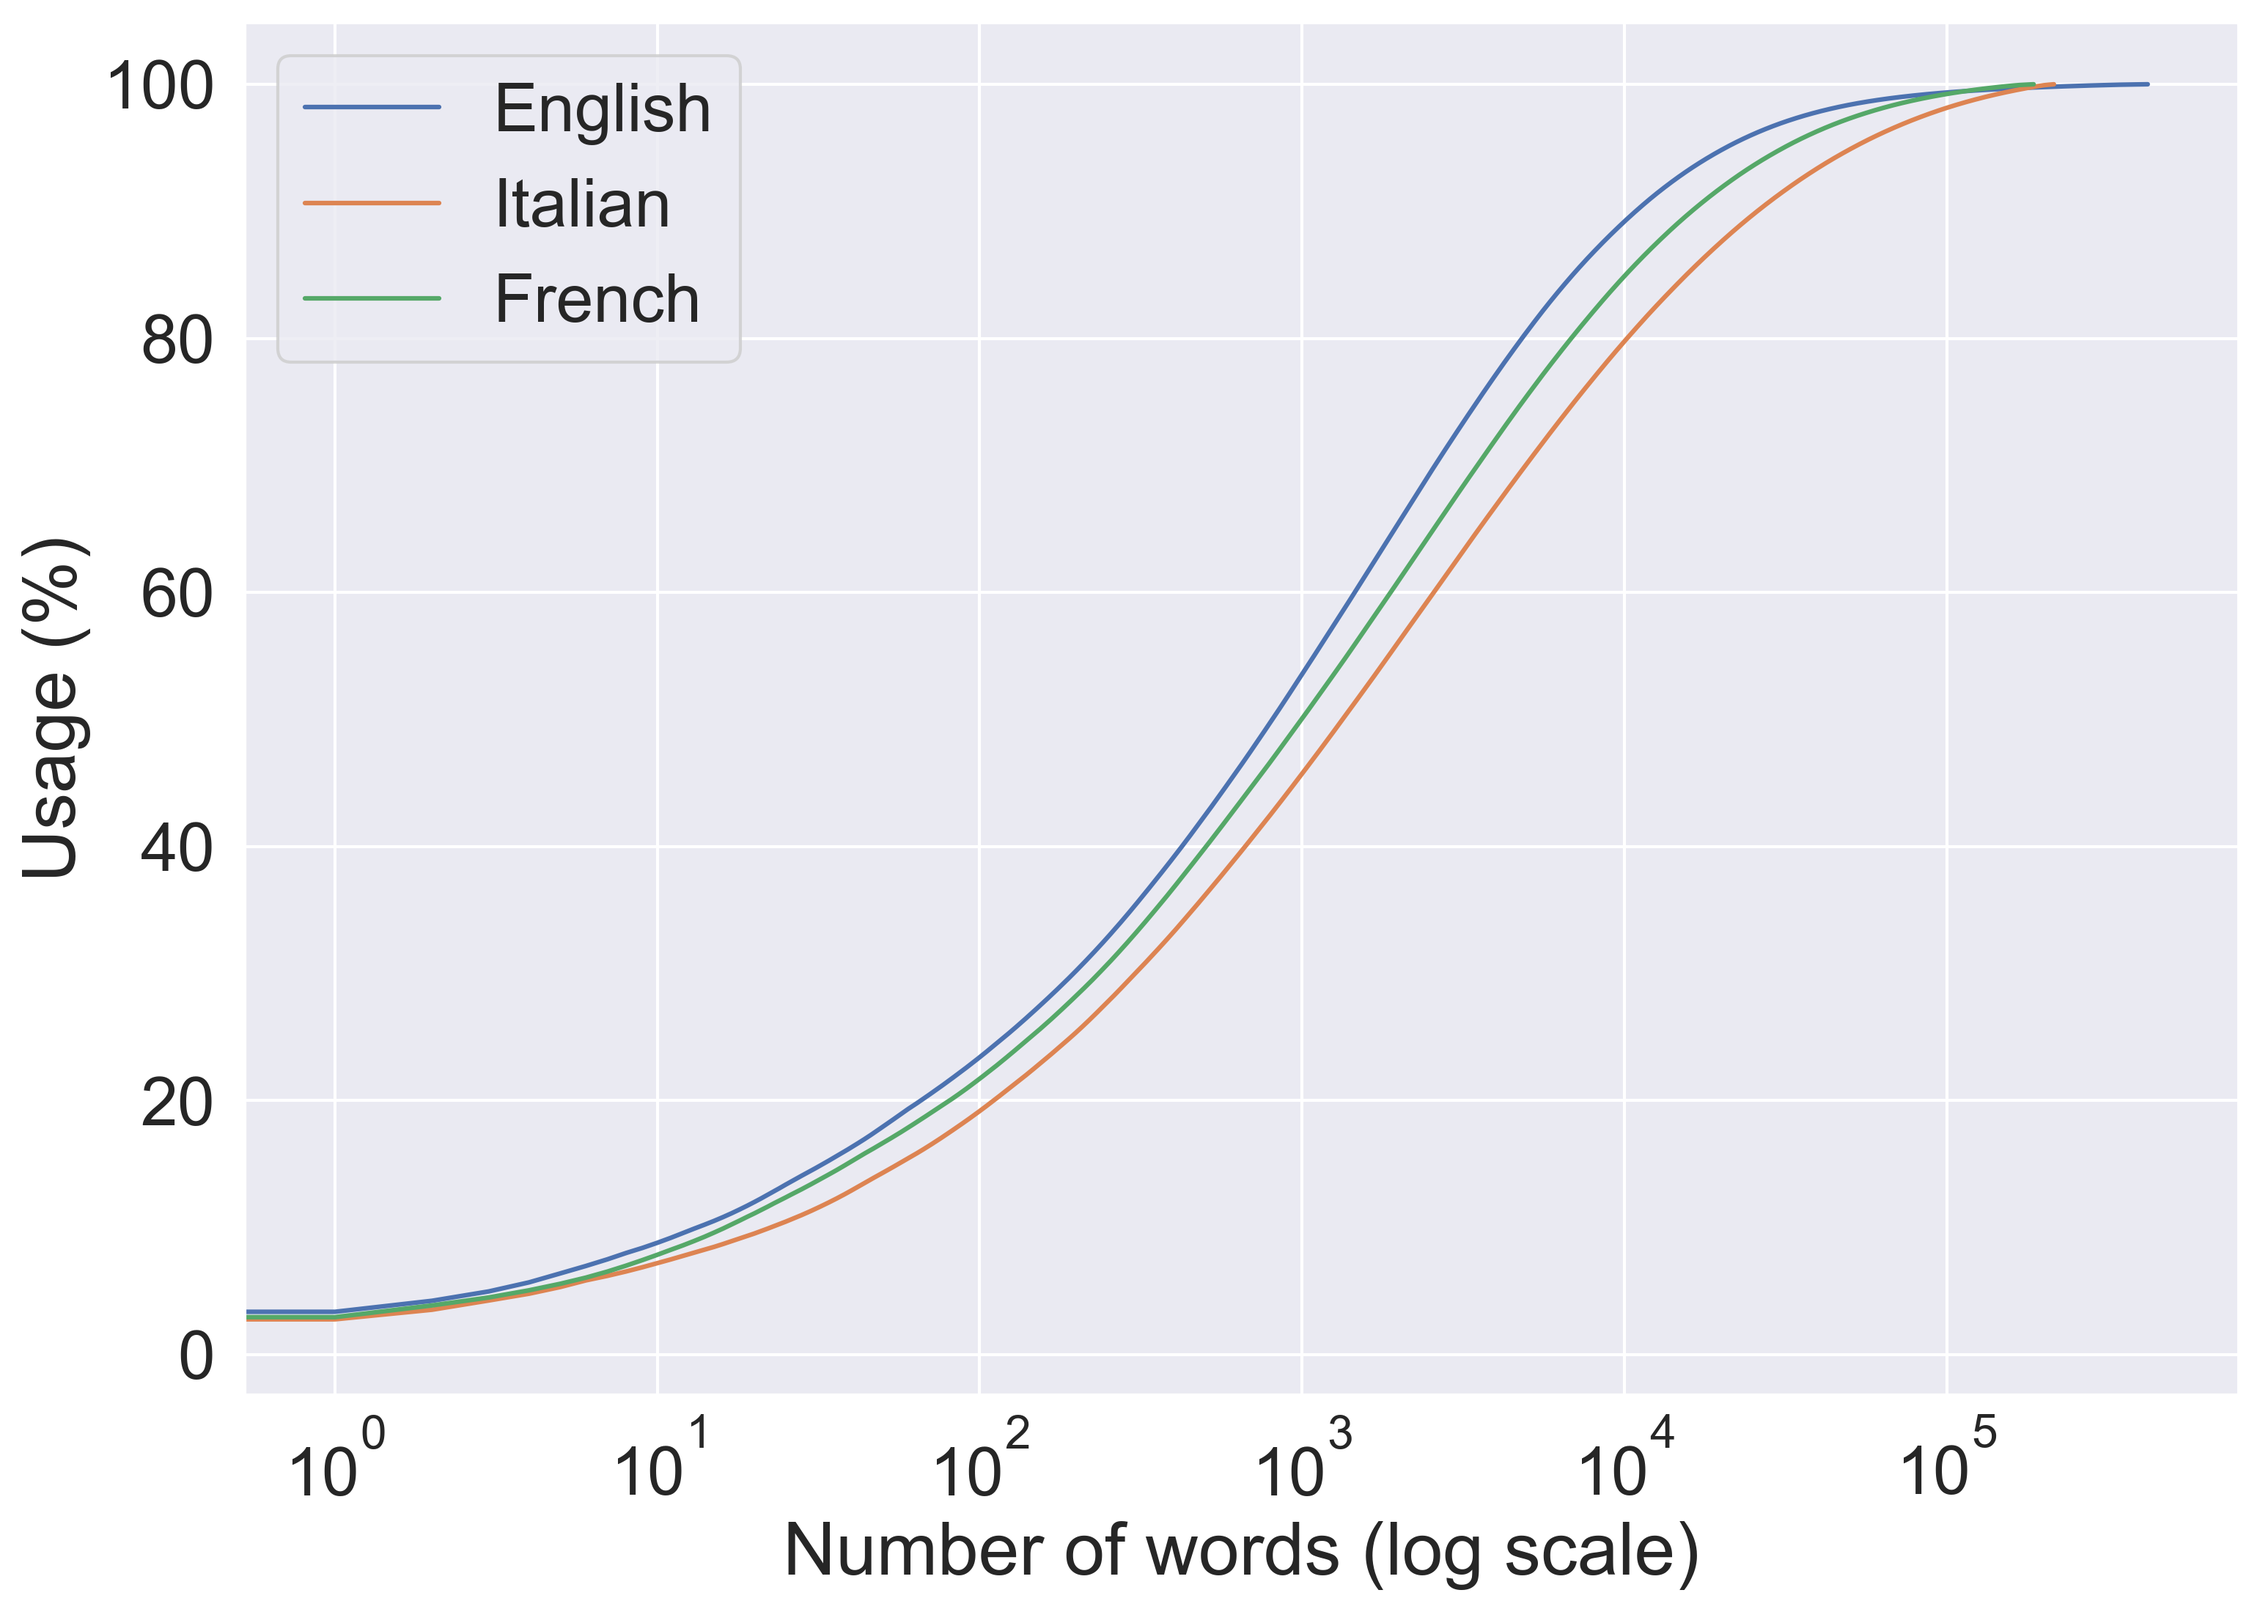
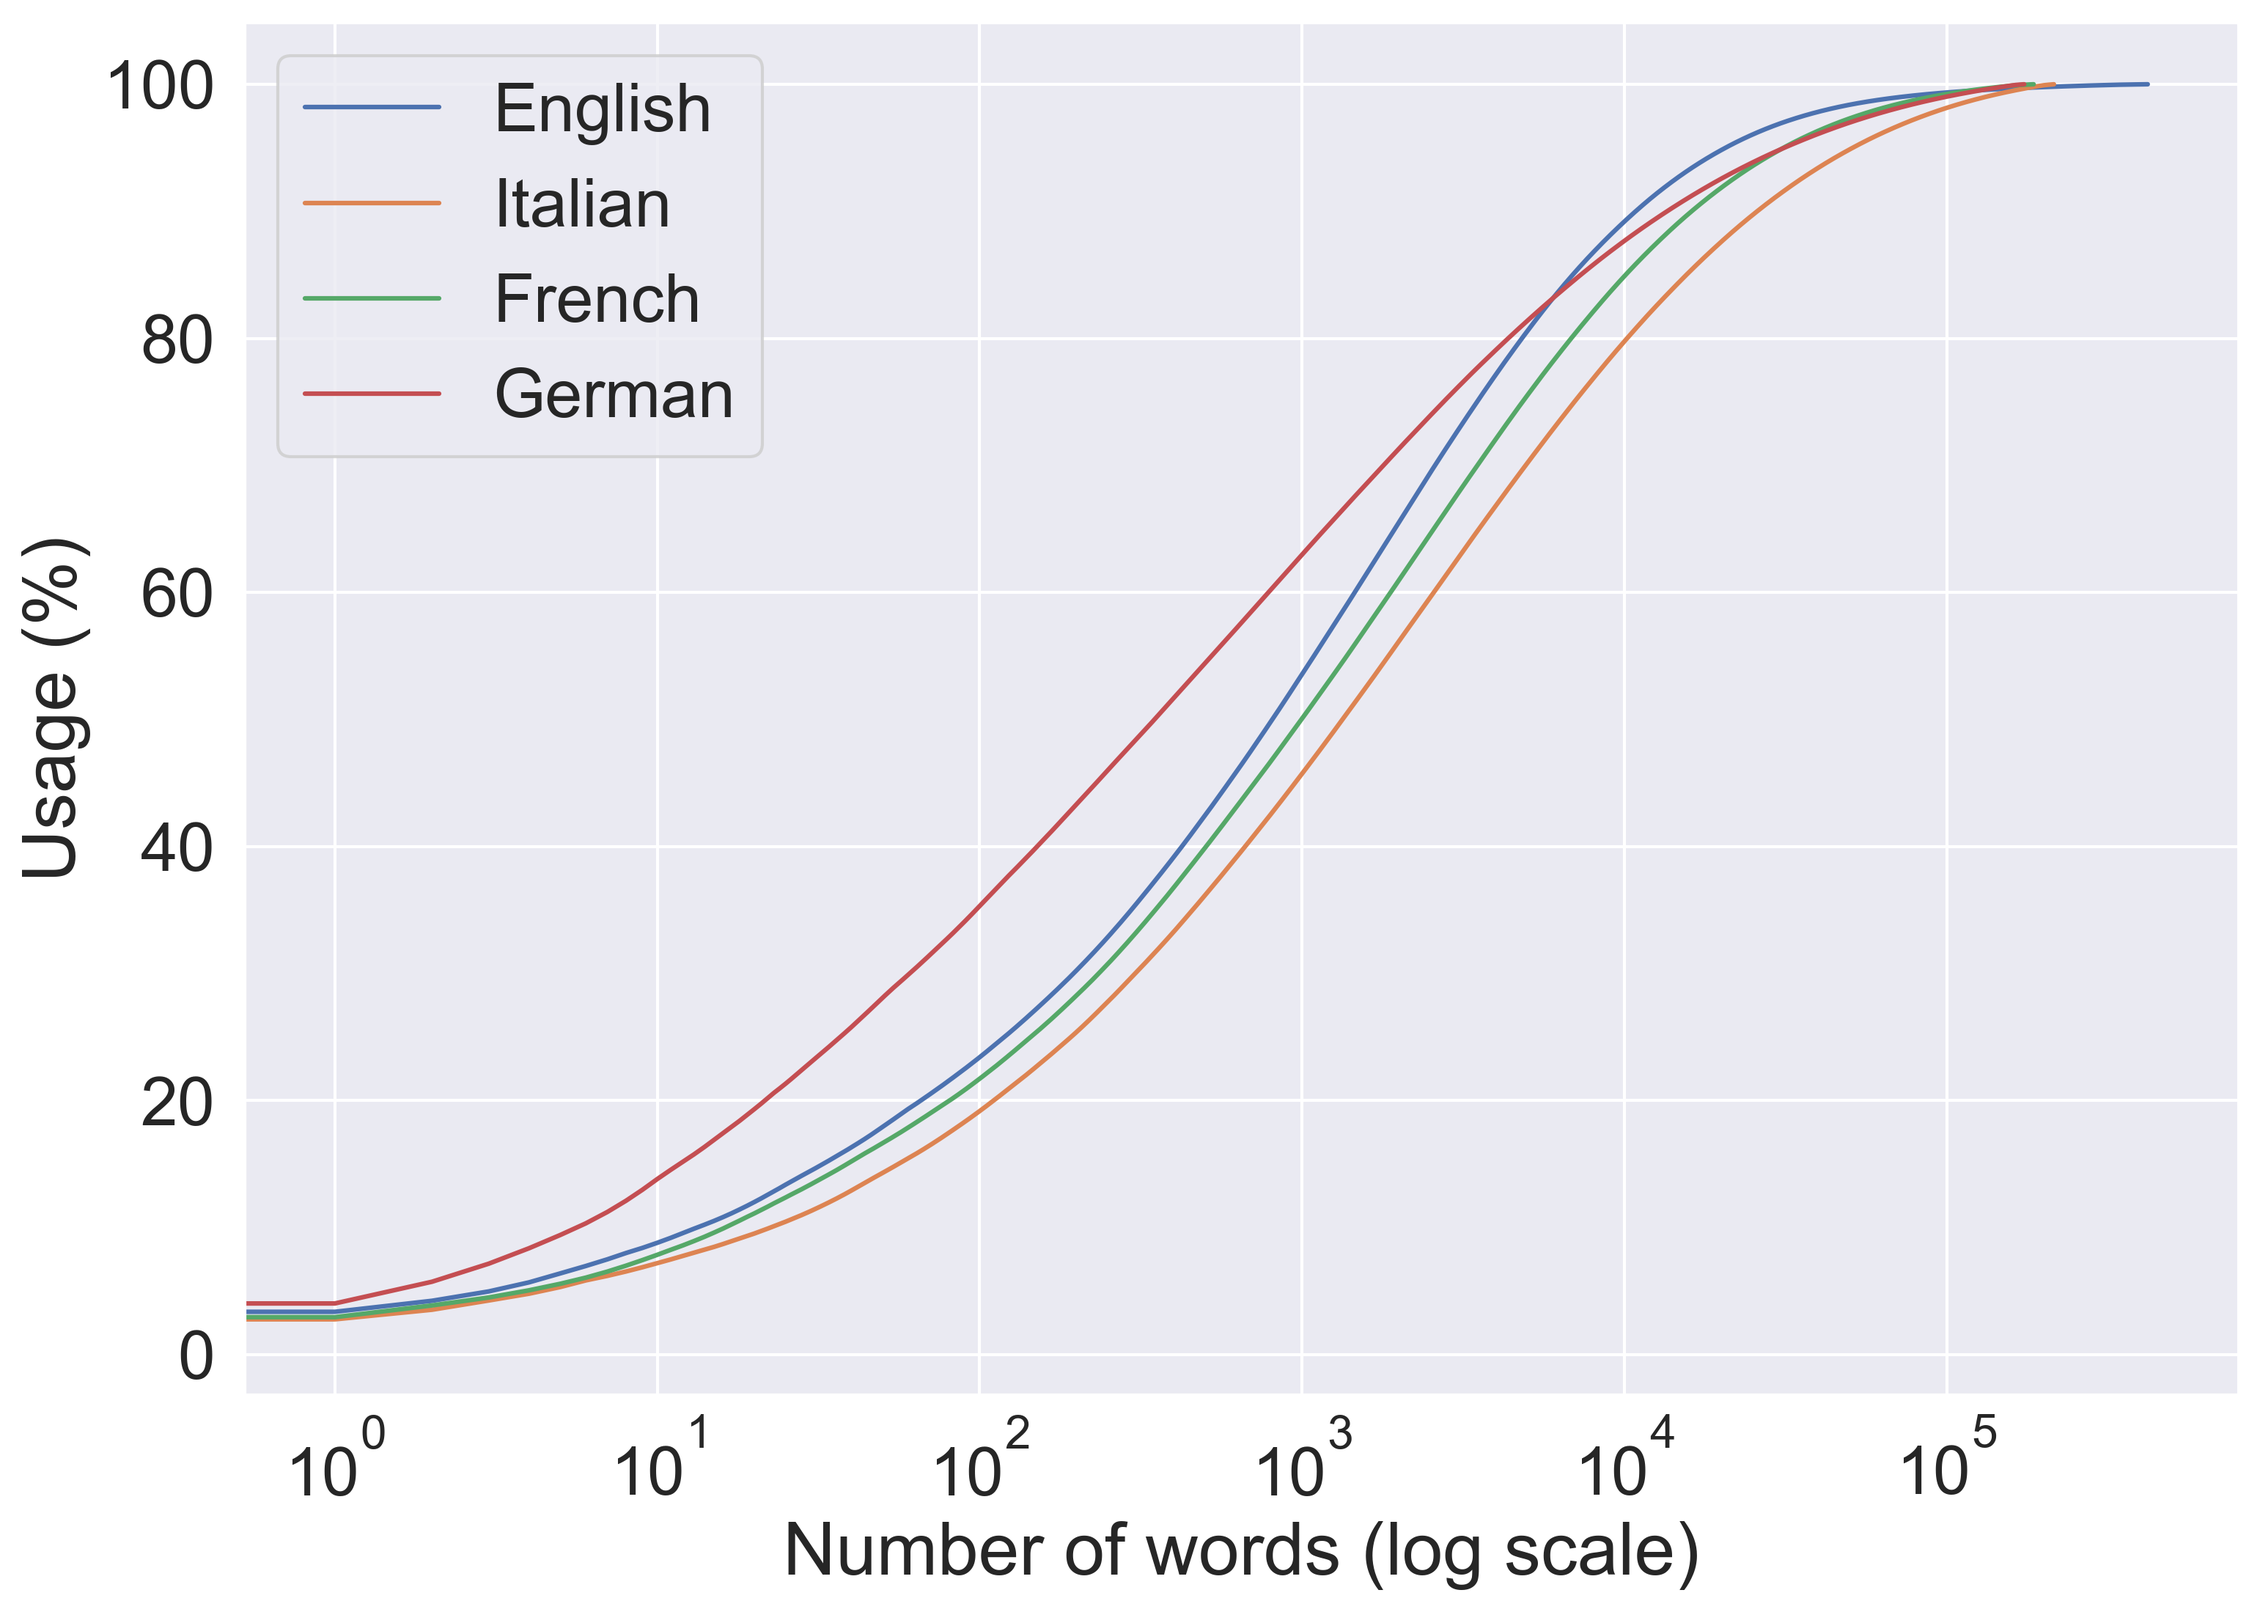
Added German. Loop over dict in MilleParole.ipynb

diff --git a/merge_words.py b/merge_words.py
@@ -13,8 +13,8 @@ def main():
     n_min = 1000
     # year from (here only for filename)
     year_min = 1950
-    # language: eng, ita, or fre
-    language = 'fre'
+    # language: eng, ita, fre, ger
+    language = 'ger'
     # ======================================================
 
     alphabet_string = string.ascii_lowercase
